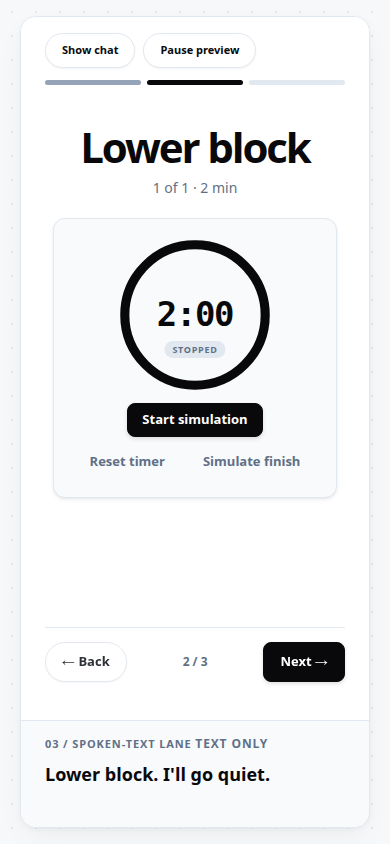
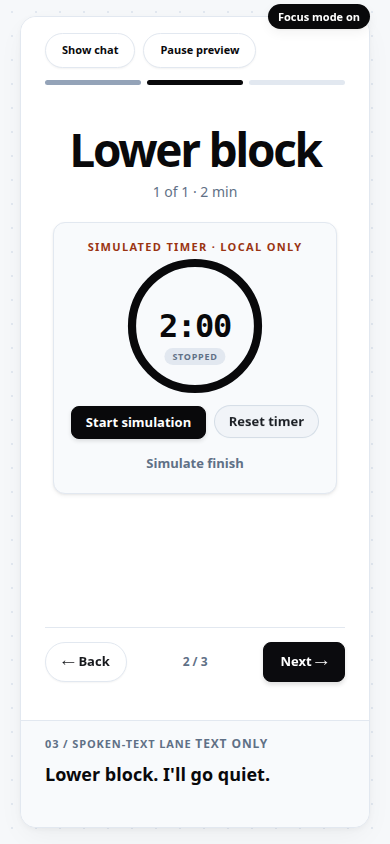
Focus mode keeps the stacked timer; explain automatic focus switches
- Side-by-side timer card only in normal mode on short screens; focus
  mode keeps the ring above its controls (still fits every size)
- Status notes when focus switches by itself: "Focus mode on · Show
  chat or Esc for the conversation" and "Session complete · the chat is
  back"; they fade after 4 s, and a manual switch clears them
- Browser tests for the notes

Changed region(s): [[0.1846, 0.2773, 0.7692, 0.5545], [0.1846, 0.154, 0.8308, 0.2464], [0.6769, 0.0, 0.9538, 0.0616]]

diff --git a/src/web/app.ts b/src/web/app.ts
@@ -8,7 +8,7 @@ import type { StatementNode } from '../shared/openui/openui-model.js';
 import { redactValue } from '../shared/redact.js';
 import { renderComponent } from './components.js';
 import { button,byId,el,statusPill } from './dom.js';
-import { STORAGE_KEYS,UI_TEXT } from './constants.js';
+import { NOTE_MS,STORAGE_KEYS,UI_TEXT } from './constants.js';
 
 type Config={providers:ProviderStatus[];token:string};let config:Config|undefined;
 // Focus mode: while a session's clock screen is on, the workout takes the whole window.
@@ -59,18 +59,24 @@ function render(){
   byId('navigation').hidden=screens.length<2;byId('position').textContent=`${index+1} / ${screens.length}`;byId<HTMLButtonElement>('back').disabled=paused||index<=0;const ended=finished&&index===screens.length-1;byId<HTMLButtonElement>('next').disabled=paused||ended;byId('next').textContent=ended?UI_TEXT.sessionEnded:index===screens.length-1?UI_TEXT.finish:UI_TEXT.next;
   const children=(c.document.current?.props.children as StatementNode[]|undefined)??[];
   const clockScreen=children.some(n=>n.name==='Timer')&&isSession();
-  setFocus(clockScreen&&!focusOptOut&&!c.error);byId('focus').hidden=!clockScreen;byId('focus').textContent=focused?UI_TEXT.showChat:UI_TEXT.focus;
+  setFocus(clockScreen&&!focusOptOut&&!c.error,index===screens.length-1);byId('focus').hidden=!clockScreen;byId('focus').textContent=focused?UI_TEXT.showChat:UI_TEXT.focus;
   byId<HTMLButtonElement>('pause').disabled=!screens.length;byId('pause').textContent=paused?'Resume preview':'Pause preview';byId('paused').hidden=!paused;
   const cues=(c.document.current?.props.children as StatementNode[]??[]).filter(n=>n.name==='Cue').map(n=>String(n.props.text));byId('spoken').textContent=cues.join(' ')||c.document.prose||'Current-screen Cues appear here as text. No audio is produced.';
   byId('state-json').textContent=JSON.stringify({ui_state:c.document.echo(),client_events:c.clientEvents,timers:timers.list()},null,2);byId<HTMLButtonElement>('export').disabled=c.pending||!c.events.length;
 }
-function setFocus(on:boolean){
+// A short note says why the layout changed when it changes by itself; a person's own Show chat,
+// Focus or Esc needs no explanation.
+let noteTimer:ReturnType<typeof setTimeout>|undefined,manualFocus=false;
+function note(id:string){for(const n of ['focus-on','focus-off'])byId(n).hidden=n!==id;clearTimeout(noteTimer);noteTimer=setTimeout(()=>{byId(id).hidden=true;},NOTE_MS);}
+function setFocus(on:boolean,atClose:boolean){
   if(on===focused)return;focused=on;
   const apply=()=>{document.body.classList.toggle('focus',on);scrollTo({top:0});};
   if(!matchMedia('(prefers-reduced-motion: reduce)').matches&&'startViewTransition' in document)document.startViewTransition(apply);else apply();
+  if(!manualFocus){if(on)note('focus-on');else if(atClose)note('focus-off');}else{clearTimeout(noteTimer);byId('focus-on').hidden=byId('focus-off').hidden=true;}
+  manualFocus=false;
 }
-byId('focus').addEventListener('click',()=>{focusOptOut=focused;render();});
-document.addEventListener('keydown',event=>{if(event.key==='Escape'&&focused){focusOptOut=true;render();}});
+byId('focus').addEventListener('click',()=>{manualFocus=true;focusOptOut=focused;render();});
+document.addEventListener('keydown',event=>{if(event.key==='Escape'&&focused){manualFocus=true;focusOptOut=true;render();}});
 byId<HTMLFormElement>('composer').addEventListener('submit',event=>{event.preventDefault();const text=draft.value.trim();if(text){draft.value='';send(text);}});
 draft.addEventListener('keydown',event=>{if(event.key==='Enter'&&!event.shiftKey&&!event.isComposing){event.preventDefault();byId<HTMLFormElement>('composer').requestSubmit();}});
 byId('sample').addEventListener('click',()=>send('Load wiring sample'));byId('cancel').addEventListener('click',()=>c.cancel());byId('retry').addEventListener('click',()=>{if(!paused)void c.retry();});
@@ -82,7 +88,7 @@ byId<HTMLInputElement>('consent').addEventListener('change',event=>{c.consent=(e
 byId('apply-patch').addEventListener('click',()=>{try{const raw=byId<HTMLTextAreaElement>('patch').value;c.document.apply(raw.includes('```')?raw:'```openui\n'+raw+'\n```');c.localEvent('Builder applied local OpenUI data: '+raw);byId('patch-status').textContent='Patch accepted. This is local fixture evidence, not a model run.';}catch{byId('patch-status').textContent='Invalid patch. Previous screen kept. Check names, arguments and catalog.';}});
 byId('export').addEventListener('click',()=>{const label=byId<HTMLSelectElement>('run-label').value;const payload={format:'aira-workout-run-v1',label,appVersion:APP_VERSION,schemaVersion:SCHEMA_VERSION,selectedProvider:c.provider,note:byId<HTMLTextAreaElement>('note').value,events:c.events,state:{ui_state:c.document.echo(),client_events:c.clientEvents},timers:timers.list()};const url=URL.createObjectURL(new Blob([JSON.stringify(redactValue(payload),null,2)],{type:'application/json'}));const link=el('a');link.href=url;link.download=label+'.json';link.click();setTimeout(()=>URL.revokeObjectURL(url),1000);byId('export-status').textContent=`Downloaded ${label}.json. Review and move it into runs/.`;});
 async function start(){render();try{const response=await fetch('/api/config');if(!response.ok)throw new Error();config=await response.json();const select=byId<HTMLSelectElement>('provider');select.replaceChildren();for(const p of config!.providers){const option=el('option',p.label+(p.enabled?'':' · setup / blocked'));option.value=p.id;select.append(option);}select.value='mock';select.disabled=false;render();}catch{byId('status').textContent='Could not connect. Restart the local server and reload.';}}
-byId('status-tray').append(statusPill('pending',UI_TEXT.pending,UI_TEXT.pendingDetail,'busy'),statusPill('paused',UI_TEXT.paused,UI_TEXT.pausedDetail));
+byId('status-tray').append(statusPill('pending',UI_TEXT.pending,UI_TEXT.pendingDetail,'busy'),statusPill('paused',UI_TEXT.paused,UI_TEXT.pausedDetail),statusPill('focus-on',UI_TEXT.focusOn,UI_TEXT.focusOnDetail),statusPill('focus-off',UI_TEXT.focusOff,UI_TEXT.focusOffDetail));
 // Theme: follow the system unless the person picked one; the pick is remembered in this browser only.
 // The CSS does the rest through color-scheme, so there is no flash of the wrong theme on load.
 const systemDark=matchMedia('(prefers-color-scheme: dark)');

diff --git a/src/web/styles.css b/src/web/styles.css
@@ -436,6 +436,7 @@ input[type=checkbox] {
 }
 
 .panel-heading button {
+  white-space: nowrap;
   font-size: 11px;
   min-height: 30px;
   padding: 4px 10px;
@@ -1161,7 +1162,8 @@ body.focus .spoken > .micro {
   display: none;
 }
 
-/* Shorter windows: a smaller ring and headline so every screen fits without scrolling. */
+/* Shorter windows: tighter page chrome. How the screen's content sizes itself is decided by the
+   screen area's own height (container queries below), so it is right in normal and focus mode alike. */
 @media (max-height: 900px) {
   header {
     padding-top: 10px;
@@ -1185,6 +1187,59 @@ body.focus .spoken > .micro {
   .spoken > .micro {
     display: none;
   }
+}
+
+@media (max-height: 660px) {
+  .spoken p {
+    font-size: 15px;
+  }
+}
+
+/* The screen area is a size container: its content scales to the space it really has. */
+#screen {
+  container: screen / size;
+}
+
+/* When a screen has a headline, the timer card does not repeat the block name. */
+#screen:has(.keyword) .timer h3 {
+  display: none;
+}
+
+@container screen (max-height: 600px) {
+  #screen .timer > p.micro {
+    display: none;
+  }
+
+  #screen .keyword {
+    padding: 8px 0 4px;
+  }
+
+  #screen .keyword strong {
+    font-size: 46px;
+  }
+
+  #screen .timer {
+    padding: 12px 16px;
+  }
+
+  #screen .timer-dial {
+    width: 140px;
+    height: 140px;
+  }
+
+  #screen .timer-dial strong {
+    font-size: 32px;
+  }
+
+  #screen .alert {
+    padding: 8px 12px;
+    font-size: 12px;
+  }
+
+  #screen .row button {
+    min-height: 34px;
+    padding: 6px 14px;
+  }
 
   /* The receipt is the busiest screen: tighter title, list and button spacing. */
   #screen .block {
@@ -1206,93 +1261,127 @@ body.focus .spoken > .micro {
   #screen > .row {
     margin-top: 8px;
   }
+}
 
-  /* The arrival screen already says "Simulated session"; on short windows the card label can go. */
-  body.focus .timer > .eyebrow {
+@container screen (max-height: 470px) {
+  /* The arrival screen already says "Simulated session"; here the card label can go. */
+  #screen .timer > .eyebrow {
     display: none;
   }
 
-  #screen .alert {
-    padding: 8px 12px;
-    font-size: 12px;
-  }
-
-  #screen .row button {
-    min-height: 34px;
-    padding: 6px 14px;
-  }
-
-  .keyword {
-    padding: 8px 0 4px;
-  }
-
-  .keyword strong {
-    font-size: 46px;
-  }
-
-  .timer {
-    padding: 12px 16px;
-  }
-
-  .timer-dial {
-    width: 140px;
-    height: 140px;
-  }
-
-  .timer-dial strong {
-    font-size: 32px;
-  }
-}
-
-@media (max-height: 760px) {
-  .preview .panel-heading {
-    margin-bottom: 10px;
-    padding-bottom: 8px;
-  }
-
-  .keyword strong {
+  #screen .keyword strong {
     font-size: 38px;
   }
 
-  .keyword p {
+  #screen .keyword p {
     margin-top: 2px;
   }
 
-  .timer-dial {
+  #screen .timer-dial {
     width: 112px;
     height: 112px;
     margin-bottom: 4px;
   }
 
-  .timer-dial strong {
+  #screen .timer-dial strong {
     font-size: 26px;
   }
 
-  .timer .row {
+  #screen .timer .row {
     margin-top: 6px;
+  }
+
+  /* Short screen areas with the chat shown: the ring sits beside its controls. Focus mode has the
+     room to keep them stacked. */
+  body:not(.focus) #screen .timer {
+    display: grid;
+    grid-template-columns: auto auto;
+    grid-template-rows: 1fr auto auto auto 1fr;
+    justify-content: center;
+    column-gap: 20px;
+    text-align: left;
+  }
+
+  body:not(.focus) #screen .timer > * {
+    grid-column: 2;
+  }
+
+  body:not(.focus) #screen .timer .timer-dial {
+    grid-column: 1;
+    grid-row: 1 / 6;
+    margin: 0;
+  }
+
+  body:not(.focus) #screen .timer h3 {
+    grid-row: 2;
+  }
+
+  body:not(.focus) #screen .timer .timer-done-note {
+    grid-row: 3;
+  }
+
+  body:not(.focus) #screen .timer .row {
+    grid-row: 4;
+  }
+
+  body:not(.focus) #screen .timer .row {
+    justify-content: flex-start;
+    margin-top: 0;
+  }
+
+  body:not(.focus) #screen .timer-done .timer-done-note {
+    margin: 0 0 6px;
   }
 }
 
-@media (max-height: 660px) {
-  .keyword strong {
+@container screen (max-height: 380px) {
+  #screen .keyword strong {
     font-size: 32px;
   }
 
-  .timer-dial .timer-status {
+  #screen .timer-dial .timer-status {
     display: none;
   }
 
-  .timer-dial {
+  #screen .timer-dial {
     width: 92px;
     height: 92px;
   }
 
-  .timer-dial strong {
+  #screen .timer-dial strong {
     font-size: 22px;
   }
+}
 
-  .spoken p {
-    font-size: 15px;
+@container screen (max-height: 340px) {
+  #screen .keyword {
+    padding: 2px 0;
+  }
+
+  #screen .keyword strong {
+    font-size: 28px;
+  }
+
+  #screen .keyword p {
+    margin: 0;
+  }
+
+  #screen .alert {
+    padding: 6px 10px;
+  }
+
+  #screen .timer {
+    margin-top: 4px;
+    padding: 8px 14px;
+  }
+
+  #screen > .row {
+    margin-top: 4px;
+  }
+
+  #screen .row button {
+    min-height: 30px;
+    padding: 4px 12px;
   }
 }
 
@@ -1434,6 +1523,11 @@ html.theme-switching::view-transition-new(root) {
     display: block;
     margin-left: 0;
     margin-top: 4px;
+  }
+
+  /* Narrow screens: when the Focus button joins the panel buttons, the panel title steps aside. */
+  .panel-heading:has(#focus:not([hidden])) h2 {
+    display: none;
   }
 
   /* Narrow screens: status pills keep their first words and align with the app's edge. */

diff --git a/src/web/constants.ts b/src/web/constants.ts
@@ -14,10 +14,17 @@ export const UI_TEXT = {
   sessionEnded: 'Session ended',
   timeUp: "Time. Next when you're ready.",
   startSession: 'Start a session',
+  focusOn: 'Focus mode on',
+  focusOnDetail: 'Show chat or Esc for the conversation',
+  focusOff: 'Session complete',
+  focusOffDetail: 'the chat is back',
   themeSwitch: 'Dark theme',
   themeToDark: 'Switch to dark theme',
   themeToLight: 'Switch to light theme',
 } as const;
+
+// How long a status note (such as "Focus mode on") stays before it fades.
+export const NOTE_MS = 4000;
 
 // Remembered per browser only; the page works the same when storage is unavailable.
 export const STORAGE_KEYS = { theme: 'aira-workout-theme' } as const;

diff --git a/docs/EXPLANATION.md b/docs/EXPLANATION.md
@@ -35,8 +35,8 @@ A workout is a hands-busy moment. So Aira reads the situation from one message, 
 6. **Boundaries.** Fictional and synthetic: no exercise names, reps, intensity or health advice. Mentioning pain or dizziness replaces the session with a quiet stop screen.
 7. **Glanceable from across the room.** Each clock is a ring that empties as time runs, readable without reading digits. At zero it turns green and says "Time. Next when you're ready.", and Next lights up, because a person with busy hands isn't watching the numbers.
 8. **A component of my own: `SessionMap`.** One bar for the whole session, each segment sized by its length. On arrival it shows the shape of what's ahead. On the close it shows what actually ran: ran, partly, not started. The model only decides *where* the map goes. The app draws it from the real Timers and their local states, so it can't report a block that didn't run, and the close screen is truthful the moment the person arrives, before any model turn.
-9. **Focus mode while the clock runs.** Once the session starts (the first clock screen), everything but the workout steps aside: page header, chat, builder tools. The screen fills the window with Back/Next and Aira's line pinned at the bottom, sized to fit from a phone to a large monitor. It ends on the close, so the receipt appears next to the chat. The chat is one tap away ("Show chat" or Esc), and a failed reply brings it back automatically so Retry is never hidden. The panel glides to its new place on entry and exit. Focus mode only applies to planned sessions (marked by a `SessionMap`), not the starter's wiring sample.
-10. **The whole app fits the window.** Outside focus mode the workspace is exactly as tall as the window below the header and mode bar: the chat scrolls inside its column with the message box always visible, and the screen keeps Back/Next and Aira's line at the bottom. On phones the screen panel is one window tall with the chat below. Measured on every screen state at 390×844, 768×1024, 1024×768, 1280×720, 1366×768, 1440×900, 1920×930 and 1920×1080: nothing needs scrolling. Only a 360×640 phone scrolls inside the screen, with Next and Aira's line still visible.
+9. **Focus mode while the clock runs.** Once the session starts (the first clock screen), everything but the workout steps aside: page header, chat, builder tools. The screen fills the window with Back/Next and Aira's line pinned at the bottom, sized to fit from a phone to a large monitor. It ends on the close, so the receipt appears next to the chat. The chat is one tap away ("Show chat" or Esc), and a failed reply brings it back automatically so Retry is never hidden. When it switches by itself, a short note says so ("Focus mode on · Show chat or Esc for the conversation", then "Session complete · the chat is back"). With the chat shown on a short screen, the timer card turns side by side; focus mode keeps it stacked. The panel glides to its new place on entry and exit. Focus mode only applies to planned sessions (marked by a `SessionMap`), not the starter's wiring sample.
+10. **The whole app fits the window.** Outside focus mode the workspace is exactly as tall as the window below the header and mode bar: the chat scrolls inside its column with the message box always visible, and the screen keeps Back/Next and Aira's line at the bottom. On phones the screen panel is one window tall with the chat below. Content sizes itself to the screen area's real height (CSS container queries): a smaller ring and headline, and on short areas the ring sits beside its controls. Measured on every screen state, in normal and focus mode, at 390×844, 768×1024, 1024×768, 1280×720, 1366×768, 1440×900, 1920×930 and 1920×1080. Only a 360×640 phone scrolls inside the screen, with Next and Aira's line still visible.
 11. **Light and dark themes.** Every colour is a named token with its light and dark value side by side; the page follows the system theme, and a header toggle overrides it (remembered per browser). A test fails if a raw colour appears outside the tokens, and checks that content text meets WCAG AA contrast in both themes.
 
 ## Where it lives
